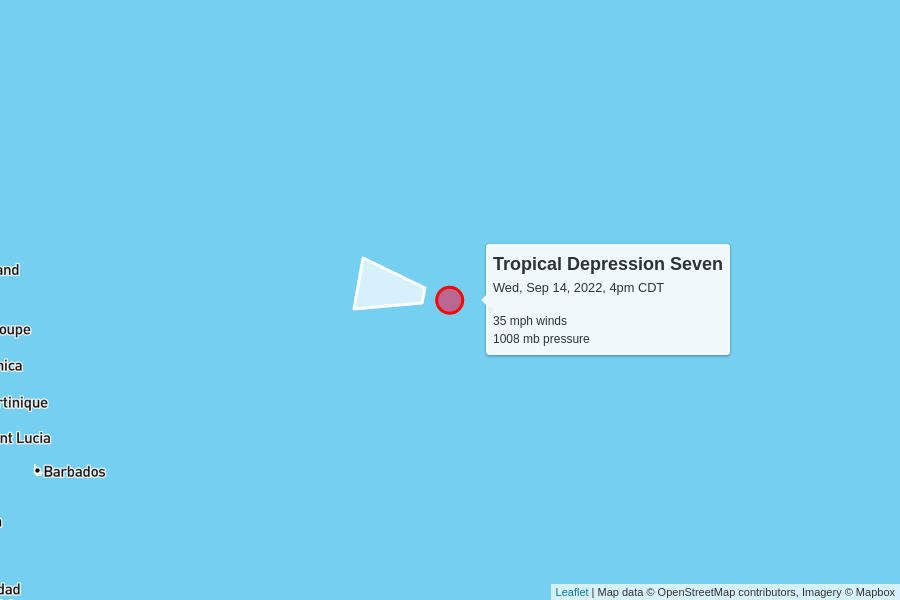
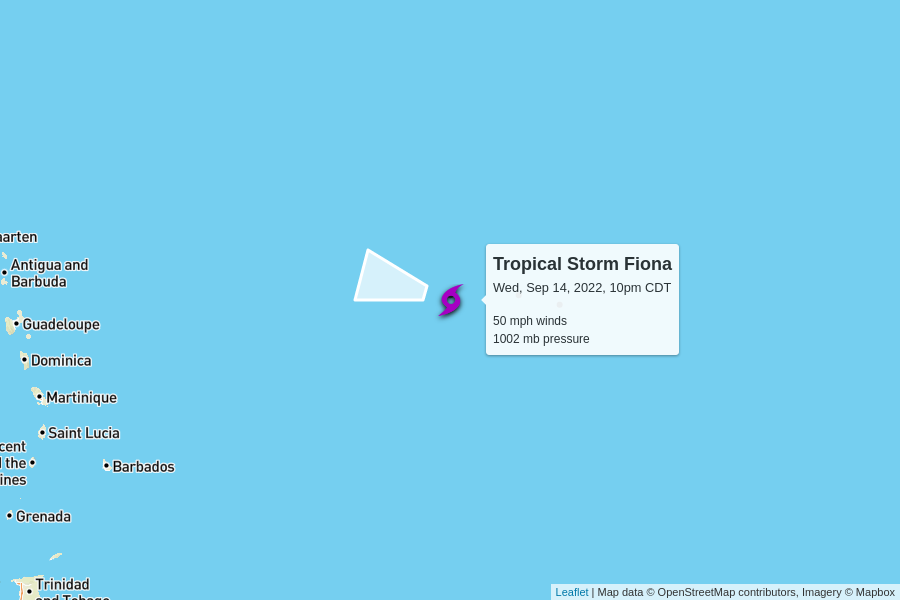
automatic update

diff --git a/docs/index.html b/docs/index.html
@@ -99,8 +99,8 @@
       <tr>
         <td colspan="6" class="storm category-0" >
           <h2>
-            Tropical Depression Seven
-            <p class="updated">last updated <span data-time>2022-09-14T21:00:00.000Z</span></p>
+            Tropical Storm Fiona
+            <p class="updated">last updated <span data-time>2022-09-15T03:00:00.000Z</span></p>
           </h2>
         </td>
       </tr>
@@ -115,15 +115,15 @@
       </tr>
       <tr>
         <td class="spacer"></td>
-        <td>35 mph</td>
-        <td>1008 mb</td>
+        <td>50 mph</td>
+        <td>1002 mb</td>
         <td>
-          13 mph to the west
+          16 mph to the west-northwest
           <br/>
-          <span style="display: inline-block; font-size: 1.5em; transform: rotate(280deg);">↑</span>
+          <span style="display: inline-block; font-size: 1.5em; transform: rotate(285deg);">↑</span>
         </td>
         <td><a href="https://raw.githubusercontent.com/mgwalker/atlantic-hurricanes/main/data/csv/AL072022.csv">AL072022.csv</a></td>
-        <td><a href="https://www.nhc.noaa.gov/archive/2022/SEVEN.shtml?">NHC advisories</a></td>
+        <td><a href="https://www.nhc.noaa.gov/archive/2022/FIONA.shtml?">NHC advisories</a></td>
       </tr>
       <tr id="storm_AL072022" >
         <td class="spacer">
